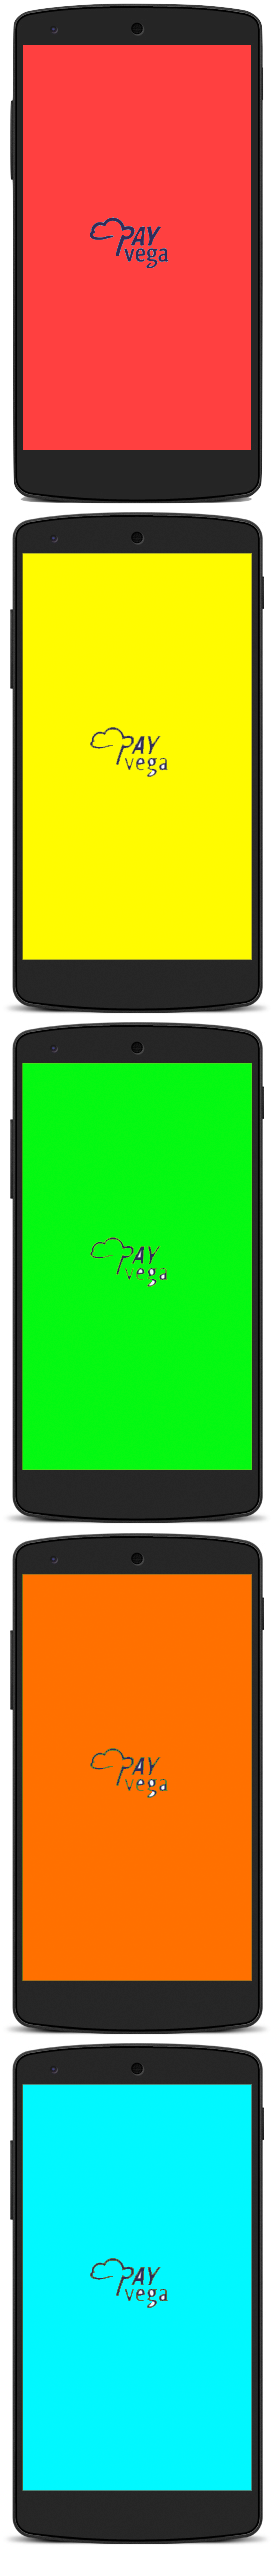
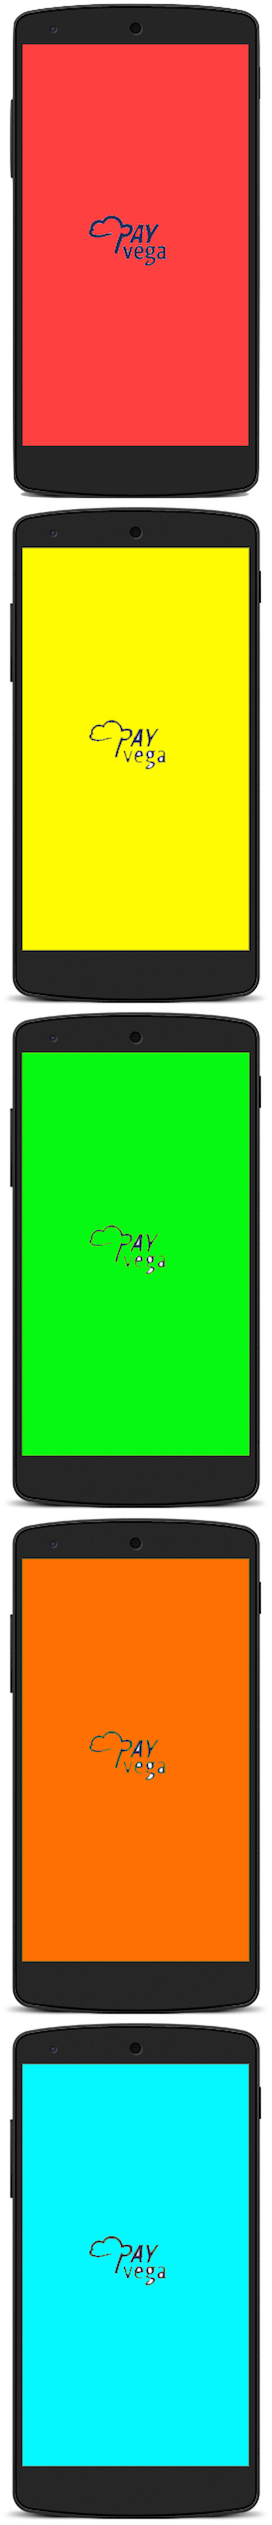
features omg mapping and sticky button

diff --git a/faqs.html b/faqs.html
@@ -1,6 +1,6 @@
 <html>
 	
-<!-- Mirrored from payvega.munark.in/faqs.html by HTTrack Website Copier/3.x [XR&CO'2014], Tue, 08 Sep 2015 07:49:42 GMT -->
+<!-- Mirrored from payvega.munark.in/faqs.html by HTTrack Website Copier/3.x [XR&CO'2014], Thu, 10 Sep 2015 11:20:46 GMT -->
 <head>
 		<title>PayVega</title>
 		<meta name="viewport" content="width=device-width, initial-scale=1.0">
@@ -23,7 +23,7 @@
 						<img src="img/white-payvega.png" alt="paynega">
 					</a>
 					<ul class="nav-links">
-						<li><a href="index-2.html#getinvited" class="btn _uno faqbtn">get invited</a></li>
+						<li><a href="index-2.html#getinvited" class="btn _uno faqbtn samget">get invited</a></li>
 						
 					</ul>
 				</nav>
@@ -204,7 +204,7 @@
                 <div class="answer">RBI currently does not allow us to pay interest in this account. But watch this space we may have something to announce soon :)</div>
             </div>
         </section>
-        <h2 class="item">About Debit Card</h2>
+        <h3 class="item">About Debit Card</h3>
         <section class="block item-data">
             <div class="box">
                 <div class="question">Which card do I get?</div>
@@ -223,7 +223,7 @@
                 <div class="answer"> Yes Payvega cards can be used at any ATM across the country to withdraw cash.</div>
             </div>
         </section>
-        <h2 class="item">Quick Account opening</h2>
+        <h4 class="item">Quick Account opening</h4>
         <section class="block item-data">
             <div class="box">
                 <div class="question">How can I open an account?</div>
@@ -240,7 +240,7 @@
                     The best way would be to tell your employer to deposit your salary into the account via NEFT for free.</div>
             </div>
         </section>
-        <h2 class="item">About Money Transfer</h2>
+        <h1 class="item">About Money Transfer</h1>
         <section class="block item-data">
             <div class="box">
                 <div class="question">How can I transfer money in and out of the account?</div>
@@ -255,7 +255,7 @@
                 <div class="answer">There are no caps on transfers. All the money can be transferred in and out any number of times within a day, month or year.</div>
             </div>
         </section>
-        <h2 class="item">About Saving Goals</h2>
+        <h1 class="item">About Saving Goals</h1>
         <section class="block item-data">
             <div class="box">
                 <div class="question">What are saving goals?</div>
@@ -278,7 +278,7 @@
                 <div class="answer">The money set aside in the goal will not be useable while transferring or at ATM's or even at any merchants. To use it you will have to delete the goal.</div>
             </div>
         </section>
-        <h2 class="item">About Security</h2>
+        <h1 class="item">About Security</h1>
         <section class="block item-data">
             <div class="box">
                 <div class="question">How secure is the money?</div>
@@ -289,7 +289,7 @@
                 <div class="answer">We deploy the most sophisticated security software to prevent anything happening to your account. We have a security team monitoring the data 24 x 7. To further minimize risk no data is stored either with us or on your phone. It is safely stored with the bank on their servers which have not been breached EVER.</div>
             </div>
         </section>
-        <h2 class="item">Invite</h2>
+        <h1 class="item">Invite</h1>
         <section class="block item-data">
             <div class="box">
                 <div class="question">I've not gotten an invite yet what should I do?</div>
@@ -327,7 +327,7 @@
 				</div>
 			</div>
 		</footer>
-		<script src="ajax/libs/jquery/2.1.3/jquery.min.js"></script>
+		<script src="../ajax.googleapis.com/ajax/libs/jquery/2.1.3/jquery.min.js"></script>
 		<script type="text/javascript">
 			new WOW().init();
 			$(document).ready(function(){
@@ -353,5 +353,5 @@
 		</script>
 	</body>
 
-
+<!-- Mirrored from payvega.munark.in/faqs.html by HTTrack Website Copier/3.x [XR&CO'2014], Thu, 10 Sep 2015 11:20:55 GMT -->
 </html>

diff --git a/privacy-policy.html b/privacy-policy.html
@@ -1,6 +1,6 @@
 <html>
 	
-<!-- Mirrored from payvega.munark.in/privacy-policy.html by HTTrack Website Copier/3.x [XR&CO'2014], Tue, 08 Sep 2015 07:49:52 GMT -->
+<!-- Mirrored from payvega.munark.in/privacy-policy.html by HTTrack Website Copier/3.x [XR&CO'2014], Thu, 10 Sep 2015 11:20:55 GMT -->
 <head>
 		<title>PayVega</title>
 		<meta name="viewport" content="width=device-width, initial-scale=1.0">
@@ -23,7 +23,7 @@
 						<img src="img/payvega.png" alt="paynega">
 					</a>
 					<ul class="nav-links">
-						<li><a href="index-2.html#getinvited" class="btn _uno">get invited</a></li>
+						<li><a href="index-2.html#getinvited" class="btn _uno samget">get invited</a></li>
 						<li><a href="index-2.html#features" class="btn features">features</a></li>
 					</ul>
 				</nav>
@@ -63,5 +63,5 @@
 		</footer>
 	</body>
 
-<!-- Mirrored from payvega.munark.in/privacy-policy.html by HTTrack Website Copier/3.x [XR&CO'2014], Tue, 08 Sep 2015 07:49:52 GMT -->
+<!-- Mirrored from payvega.munark.in/privacy-policy.html by HTTrack Website Copier/3.x [XR&CO'2014], Thu, 10 Sep 2015 11:20:55 GMT -->
 </html>

diff --git a/contact-us.html b/contact-us.html
@@ -1,6 +1,6 @@
 <html>
 	
-<!-- Mirrored from payvega.munark.in/contact-us.html by HTTrack Website Copier/3.x [XR&CO'2014], Tue, 08 Sep 2015 07:49:52 GMT -->
+<!-- Mirrored from payvega.munark.in/contact-us.html by HTTrack Website Copier/3.x [XR&CO'2014], Thu, 10 Sep 2015 11:20:55 GMT -->
 <head>
 		<title>PayVega</title>
 		<meta name="viewport" content="width=device-width, initial-scale=1.0">
@@ -22,7 +22,7 @@
 						<img src="img/payvega.png" alt="paynega">
 					</a>
 					<ul class="nav-links">
-						<li><a href="index-2.html#getinvited" class="btn _uno">get invited</a></li>
+						<li><a href="index-2.html#getinvited" class="btn _uno samget">get invited</a></li>
 						
 					</ul>
 				</nav>
@@ -87,5 +87,5 @@
 		</footer>
 	</body>
 
-<!-- Mirrored from payvega.munark.in/contact-us.html by HTTrack Website Copier/3.x [XR&CO'2014], Tue, 08 Sep 2015 07:49:52 GMT -->
+<!-- Mirrored from payvega.munark.in/contact-us.html by HTTrack Website Copier/3.x [XR&CO'2014], Thu, 10 Sep 2015 11:20:55 GMT -->
 </html>

diff --git a/terms.html b/terms.html
@@ -1,6 +1,6 @@
 <html>
 	
-<!-- Mirrored from payvega.munark.in/terms.html by HTTrack Website Copier/3.x [XR&CO'2014], Tue, 08 Sep 2015 07:49:52 GMT -->
+<!-- Mirrored from payvega.munark.in/terms.html by HTTrack Website Copier/3.x [XR&CO'2014], Thu, 10 Sep 2015 11:20:55 GMT -->
 <head>
 		<title>PayVega</title>
 		<meta name="viewport" content="width=device-width, initial-scale=1.0">
@@ -23,7 +23,7 @@
 						<img src="img/payvega.png" alt="paynega">
 					</a>
 					<ul class="nav-links">
-						<li><a href="index-2.html#getinvited" class="btn _uno">get invited</a></li>
+						<li><a href="index-2.html#getinvited" class="btn _uno samget">get invited</a></li>
 						
 					</ul>
 				</nav>
@@ -63,5 +63,5 @@
 		</footer>
 	</body>
 
-<!-- Mirrored from payvega.munark.in/terms.html by HTTrack Website Copier/3.x [XR&CO'2014], Tue, 08 Sep 2015 07:49:52 GMT -->
+<!-- Mirrored from payvega.munark.in/terms.html by HTTrack Website Copier/3.x [XR&CO'2014], Thu, 10 Sep 2015 11:20:55 GMT -->
 </html>

diff --git a/index.html b/index.html
@@ -1,6 +1,6 @@
 <html>
 	
-
+<!-- Mirrored from payvega.munark.in/ by HTTrack Website Copier/3.x [XR&CO'2014], Thu, 10 Sep 2015 11:20:34 GMT -->
 <head>
 		<title>PayVega</title>
 		<link href='http://fonts.googleapis.com/css?family=Lato:700,300' rel='stylesheet' type='text/css'>
@@ -20,7 +20,7 @@
 						<img src="img/payvega.png" alt="paynega" width="105">
 					</a>
 					<ul class="nav-links">
-						<li><a href="#getinvited" class="btn _uno">get invited</a></li>
+						<li><a href="#getinvited" class="btn _uno samget">get invited</a></li>
 						<li><a href="#features" class="btn _uno features">features</a></li>
 					</ul>
 				</nav>
@@ -323,4 +323,5 @@
 		
 	</body>
 
+<!-- Mirrored from payvega.munark.in/ by HTTrack Website Copier/3.x [XR&CO'2014], Thu, 10 Sep 2015 11:20:44 GMT -->
 </html>

diff --git a/css/style.css b/css/style.css
@@ -275,7 +275,7 @@ h1+p, h1+p+p {
 .list span:hover, .list span.active {
 	color: #302c59;
 	background: #fce84a;
-	box-shadow: 0 0 0 10px #fce84a;
+	box-shadow: 0 0 0 #fce84a;
 }
 
 /*contact us*/
@@ -663,7 +663,7 @@ html, body {
 }
 .smobile {
 	width: 275px;
-	height: 510px;
+	height: 495px;
 	background: url(../img/mobile-1.png) no-repeat 0;
 }
 .smobile.firstphone {
@@ -740,6 +740,10 @@ html, body {
     background-color: #fff;
     border-color: #322c58;
 } 
+.samget {
+    position: fixed;
+    z-index: 999;
+}
 @media all and (max-width: 768px) {
 	body {
 		font-size: 17px;
